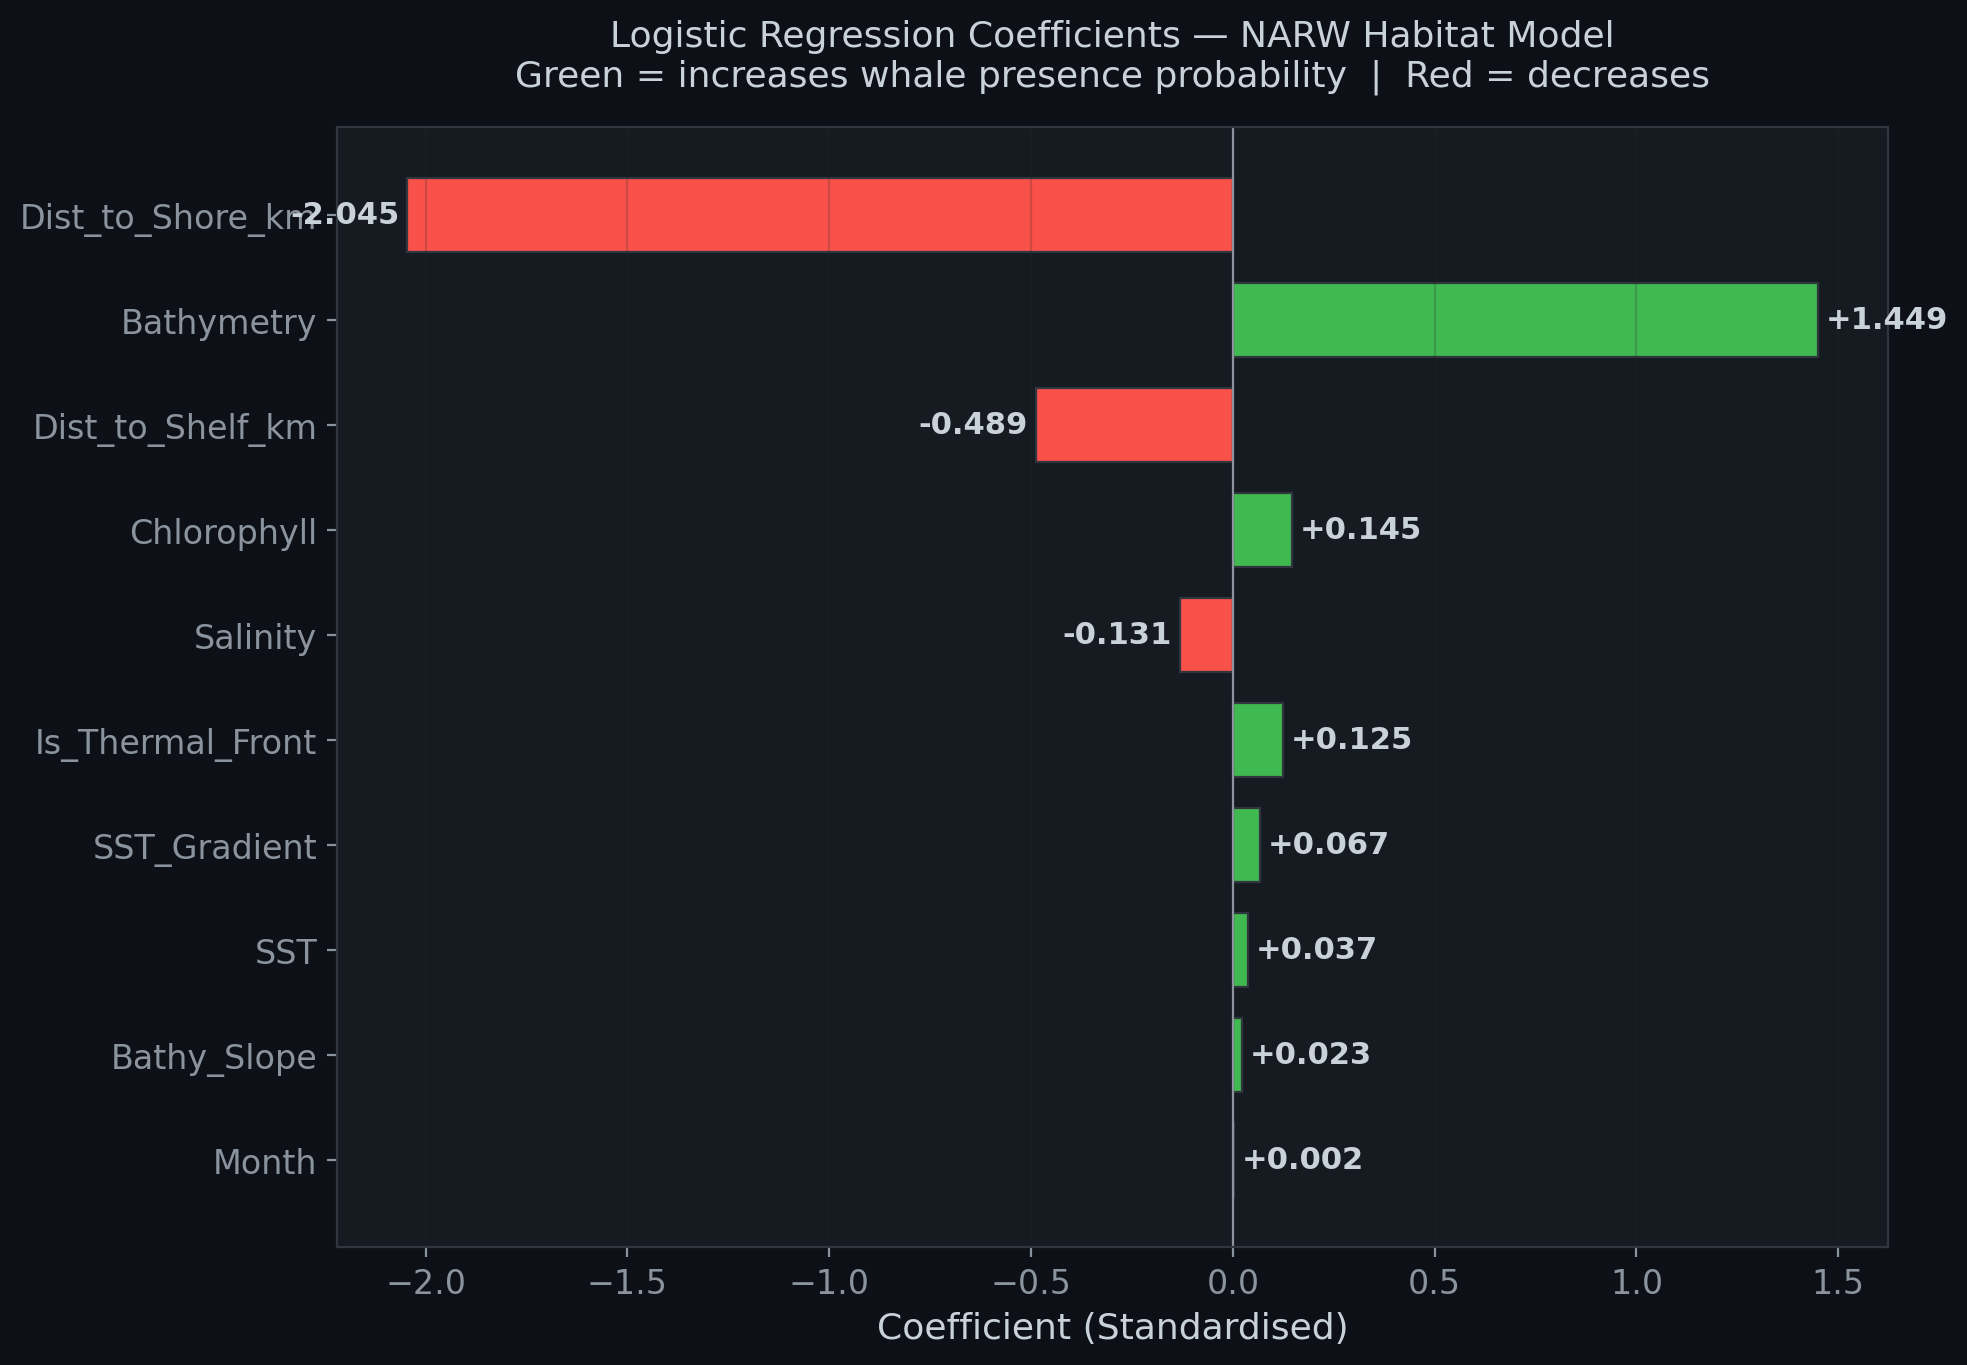
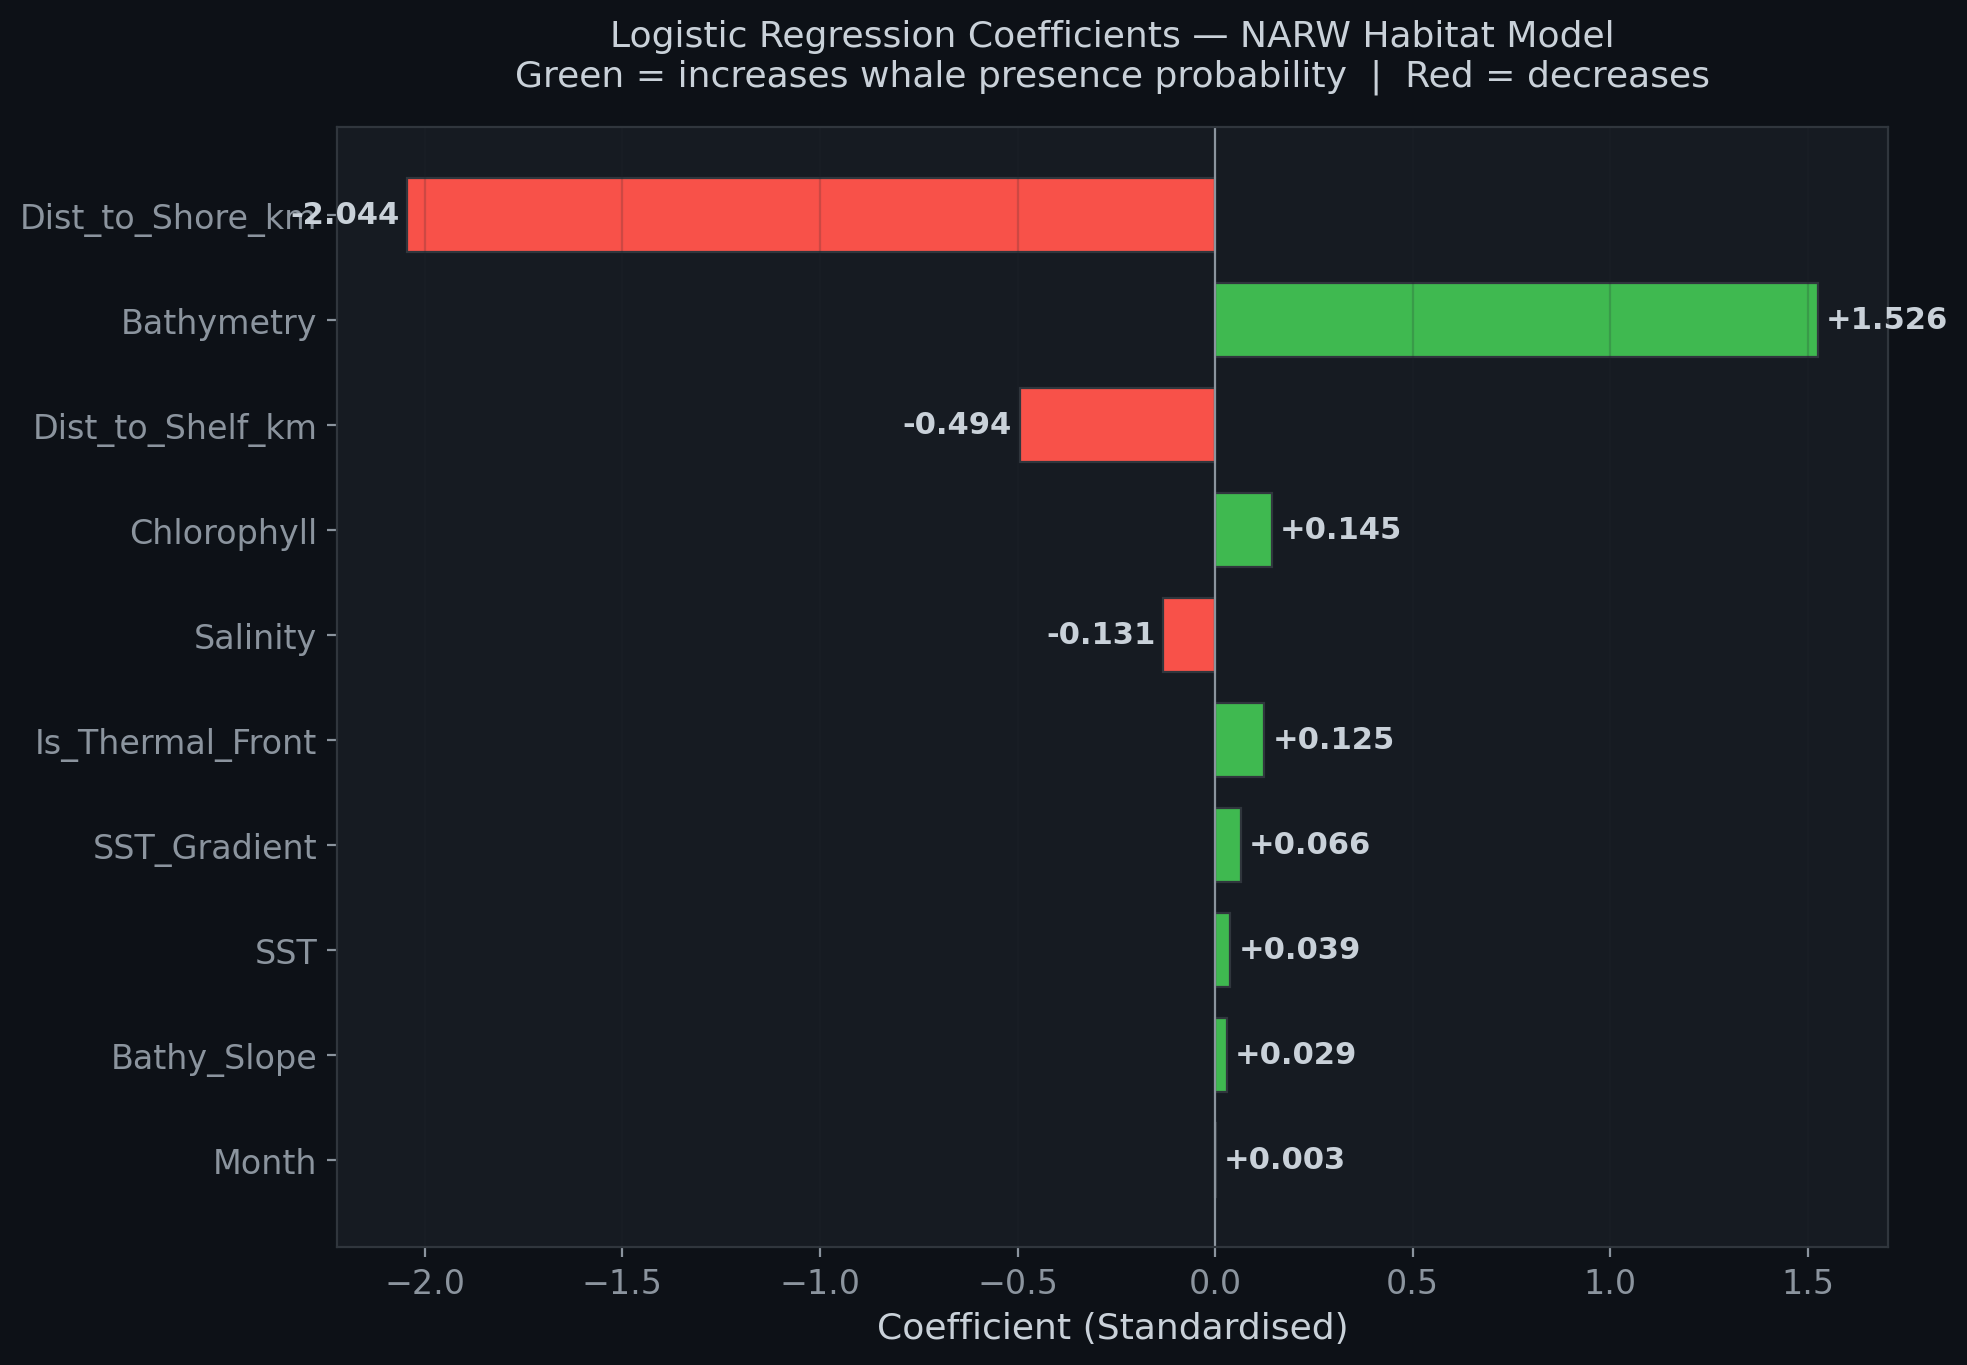
Updated TimeSeriesSplit to 4 folds across all models

diff --git a/train_logistic_regression.py b/train_logistic_regression.py
@@ -203,7 +203,7 @@ def main():
         "clf__C": loguniform(1e-3, 1e2),  # log-uniform over [0.001, 100]
     }
 
-    tscv = TimeSeriesSplit(n_splits=3)
+    tscv = TimeSeriesSplit(n_splits=4)
     n_iter = 40
     search = RandomizedSearchCV(
         base_pipeline, param_distributions, n_iter=n_iter, cv=tscv,
@@ -212,10 +212,10 @@ def main():
 
     print(f"  Pipeline: Imputer → Scaler → LogisticRegression")
     print(f"  Search space: C ~ loguniform(0.001, 100)")
-    print(f"  CV strategy: TimeSeriesSplit (3 folds, temporal ordering)")
+    print(f"  CV strategy: TimeSeriesSplit (4 folds, temporal ordering)")
     print(f"  Scoring: ROC-AUC")
     print(f"  Iterations: {n_iter} random samples")
-    print(f"  Total fits: {n_iter * 3}")
+    print(f"  Total fits: {n_iter * 4}")
     print(f"\n  Searching...", end="", flush=True)
 
     t_train = time.time()

diff --git a/train_random_forest.py b/train_random_forest.py
@@ -218,7 +218,7 @@ def main():
         "clf__max_features":     ["sqrt", "log2", 0.3, 0.5],  # mixed types, keep as list
     }
 
-    tscv = TimeSeriesSplit(n_splits=3)
+    tscv = TimeSeriesSplit(n_splits=4)
     n_iter = 40
 
     search = RandomizedSearchCV(
@@ -236,9 +236,9 @@ def main():
     }
     for param in param_distributions:
         print(f"    {param.replace('clf__', ''):20s} ~ {dist_labels[param]}")
-    print(f"  CV strategy:      TimeSeriesSplit (3 folds, temporal ordering)")
+    print(f"  CV strategy:      TimeSeriesSplit (4 folds, temporal ordering)")
     print(f"  Iterations:       {n_iter} random samples")
-    print(f"  Total fits:       {n_iter * 3}")
+    print(f"  Total fits:       {n_iter * 4}")
     print(f"\n  Searching...", end="", flush=True)
 
     t_tune = time.time()

diff --git a/train_xgboost.py b/train_xgboost.py
@@ -205,7 +205,7 @@ def main():
     }
 
     base_model = xgb.XGBClassifier(**fixed_params)
-    tscv = TimeSeriesSplit(n_splits=3)
+    tscv = TimeSeriesSplit(n_splits=4)
     n_iter = 40
 
     search = RandomizedSearchCV(
@@ -226,9 +226,9 @@ def main():
     }
     for param in param_distributions:
         print(f"    {param:20s} ~ {dist_labels[param]}")
-    print(f"  CV strategy:      TimeSeriesSplit (3 folds, temporal ordering)")
+    print(f"  CV strategy:      TimeSeriesSplit (4 folds, temporal ordering)")
     print(f"  Iterations:       {n_iter} random samples")
-    print(f"  Total fits:       {n_iter * 3}")
+    print(f"  Total fits:       {n_iter * 4}")
     print(f"\n  Searching...", end="", flush=True)
 
     t_tune = time.time()

diff --git a/ML_Walkthrough.md b/ML_Walkthrough.md
@@ -74,7 +74,7 @@ The logistic regression pipeline chains these steps using `sklearn.Pipeline` to 
 
 ### Hyperparameter Tuning
 
-The regularisation strength `C` is tuned via `RandomizedSearchCV` (40 iterations) with `TimeSeriesSplit(n_splits=3)`, sampling from a log-uniform distribution to ensure equal coverage across orders of magnitude.
+The regularisation strength `C` is tuned via `RandomizedSearchCV` (40 iterations) with `TimeSeriesSplit(n_splits=4)`, sampling from a log-uniform distribution to ensure equal coverage across orders of magnitude.
 
 | Parameter | Value | Tuned? |
 |---|---|---|
@@ -90,11 +90,11 @@ The regularisation strength `C` is tuned via `RandomizedSearchCV` (40 iterations
 
 | Metric | Value |
 |---|---|
-| **ROC-AUC** | 0.8046 |
-| **Recall** | 0.8324 |
-| **Precision** | 0.3383 |
-| **F1-Score** | 0.4811 |
-| **Accuracy** | 0.6385 |
+| **ROC-AUC** | 0.8049 |
+| **Recall** | 0.8316 |
+| **Precision** | 0.3389 |
+| **F1-Score** | 0.4816 |
+| **Accuracy** | 0.6396 |
 
 The logistic regression achieves a respectable AUC of 0.804, confirming that the feature set carries meaningful signal. However, the low precision (33.9%) at high recall (83.4%) indicates that the linear decision boundary produces many false positives — locations where the model predicts whale presence but no whale is found.
 
@@ -126,7 +126,7 @@ Logistic regression coefficients (standardised) reveal the **direction and magni
 
 ### Hyperparameter Tuning
 
-XGBoost hyperparameters are tuned via `RandomizedSearchCV` (40 iterations) with `TimeSeriesSplit(n_splits=3)`, scoring on ROC-AUC. Search distributions use `scipy.stats` for dense, continuous coverage of the parameter space.
+XGBoost hyperparameters are tuned via `RandomizedSearchCV` (40 iterations) with `TimeSeriesSplit(n_splits=4)`, scoring on ROC-AUC. Search distributions use `scipy.stats` for dense, continuous coverage of the parameter space.
 
 **Best CV ROC-AUC: 0.9499**
 
@@ -167,7 +167,7 @@ Three architectural advantages make XGBoost the superior choice for this problem
 | **F1-Score** | 0.6628 |
 | **Accuracy** | 0.8564 |
 
-At the default threshold, the tuned XGBoost achieves a **+9.5 pp AUC improvement** over logistic regression (0.8991 vs. 0.8046). However, the recall of 69.4% means ~31% of whale locations would be missed — unacceptable for endangered species management.
+At the default threshold, the tuned XGBoost achieves a **+9.4 pp AUC improvement** over logistic regression (0.8991 vs. 0.8049). However, the recall of 69.4% means ~31% of whale locations would be missed — unacceptable for endangered species management.
 
 ---
 
@@ -184,7 +184,7 @@ By comparing RF against XGBoost, we can determine whether the sequential error-c
 
 ### Hyperparameter Tuning
 
-Random Forest hyperparameters are tuned via `RandomizedSearchCV` (40 iterations) with `TimeSeriesSplit(n_splits=3)`, scoring on ROC-AUC. Integer parameters use `scipy.stats.randint` for dense coverage; `max_features` remains a discrete list due to mixed types.
+Random Forest hyperparameters are tuned via `RandomizedSearchCV` (40 iterations) with `TimeSeriesSplit(n_splits=4)`, scoring on ROC-AUC. Integer parameters use `scipy.stats.randint` for dense coverage; `max_features` remains a discrete list due to mixed types.
 
 **Best CV ROC-AUC: 0.9447**
 
@@ -214,7 +214,7 @@ Like logistic regression, Random Forest in scikit-learn cannot handle NaN values
 | **F1-Score** | 0.6956 |
 | **Accuracy** | 0.8871 |
 
-The tuned Random Forest achieves the **highest AUC of all three models** (0.9041), a **+0.5 pp improvement over XGBoost** (0.8991) and **+10.0 pp over logistic regression** (0.8046). The OOB score of 0.9264 provides an independent validation estimate.
+The tuned Random Forest achieves the **highest AUC of all three models** (0.9041), a **+0.5 pp improvement over XGBoost** (0.8991) and **+9.9 pp over logistic regression** (0.8049). The OOB score of 0.9264 provides an independent validation estimate.
 
 ### Optimised Threshold Performance (τ = 0.2018)
 
@@ -287,15 +287,15 @@ The optimised model correctly identifies **80% of whale locations** while genera
 
 ### Performance Summary (All Models Tuned)
 
-All hyperparameters were tuned using `RandomizedSearchCV` (40 iterations) with `TimeSeriesSplit` (3 folds) and `scipy.stats` distributions for dense, continuous parameter space coverage.
+All hyperparameters were tuned using `RandomizedSearchCV` (40 iterations) with `TimeSeriesSplit` (4 folds) and `scipy.stats` distributions for dense, continuous parameter space coverage.
 
 | Metric | LR (Tuned) | XGBoost (τ=0.50) | XGBoost (τ=0.22) | RF (τ=0.50) | RF (τ=0.20) |
 |---|---|---|---|---|---|
-| **ROC-AUC** | 0.8046 | 0.8991 | 0.8991 | **0.9041** | **0.9041** |
-| **Recall** | 0.8324 | 0.7011 | 0.8002 ✓ | 0.6410 | **0.8006** ✓ |
-| **Precision** | 0.3383 | 0.6285 | 0.4559 | **0.7603** | 0.4572 |
-| **F1-Score** | 0.4811 | 0.6628 | 0.5808 | **0.6956** | 0.5820 |
-| **Accuracy** | 0.6385 | 0.8564 | 0.7675 | **0.8871** | 0.7685 |
+| **ROC-AUC** | 0.8049 | 0.8991 | 0.8991 | **0.9041** | **0.9041** |
+| **Recall** | 0.8316 | 0.7011 | 0.8002 ✓ | 0.6410 | **0.8006** ✓ |
+| **Precision** | 0.3389 | 0.6285 | 0.4559 | **0.7603** | 0.4572 |
+| **F1-Score** | 0.4816 | 0.6628 | 0.5808 | **0.6956** | 0.5820 |
+| **Accuracy** | 0.6396 | 0.8564 | 0.7675 | **0.8871** | 0.7685 |
 
 ![ROC comparison — XGBoost dominates LR across all operating points](images/roc_comparison.png)
 
@@ -303,7 +303,7 @@ All hyperparameters were tuned using `RandomizedSearchCV` (40 iterations) with `
 
 ### Key Observations
 
-1. **Random Forest achieves the highest AUC (0.9041)** — A **+0.5 pp improvement** over XGBoost (0.8991) and **+10.0 pp over LR** (0.8046). Using `scipy.stats` distributions improved XGBoost by +0.8 pp (0.8916→0.8991) and RF by +0.1 pp (0.9031→0.9041) compared to discrete-list tuning.
+1. **Random Forest achieves the highest AUC (0.9041)** — A **+0.5 pp improvement** over XGBoost (0.8991) and **+9.9 pp over LR** (0.8049). Using `scipy.stats` distributions improved XGBoost by +0.8 pp (0.8916→0.8991) and RF by +0.1 pp (0.9031→0.9041) compared to discrete-list tuning.
 
 2. **At 80% recall, both tree models are nearly identical** — RF produces 2,484 FP vs. XGBoost's 2,496 FP, and precision is 45.7% vs. 45.6%. The distribution-based tuning narrowed the gap between the two models.
 

diff --git a/README.md b/README.md
@@ -260,11 +260,11 @@ The model trains on **10 features**. Here is what each one captures ecologically
 
 | Metric | Logistic Regression | XGBoost (τ=0.50) | XGBoost (τ=0.22) | Random Forest (τ=0.50) | Random Forest (τ=0.20) |
 |---|---|---|---|---|---|
-| **ROC-AUC** | 0.8046 | 0.8991 | 0.8991 | **0.9041** | **0.9041** |
-| Recall | 0.8324 | 0.7011 | 0.8002 ✓ | 0.6410 | **0.8006** ✓ |
-| Precision | 0.3383 | 0.6285 | 0.4559 | **0.7603** | 0.4572 |
-| F1-Score | 0.4811 | 0.6628 | 0.5808 | **0.6956** | 0.5820 |
-| Accuracy | 0.6385 | 0.8564 | 0.7675 | **0.8871** | 0.7685 |
+| **ROC-AUC** | 0.8049 | 0.8991 | 0.8991 | **0.9041** | **0.9041** |
+| Recall | 0.8316 | 0.7011 | 0.8002 ✓ | 0.6410 | **0.8006** ✓ |
+| Precision | 0.3389 | 0.6285 | 0.4559 | **0.7603** | 0.4572 |
+| F1-Score | 0.4816 | 0.6628 | 0.5808 | **0.6956** | 0.5820 |
+| Accuracy | 0.6396 | 0.8564 | 0.7675 | **0.8871** | 0.7685 |
 
 <p align="center">
   <img src="images/roc_comparison.png" width="45%" />
